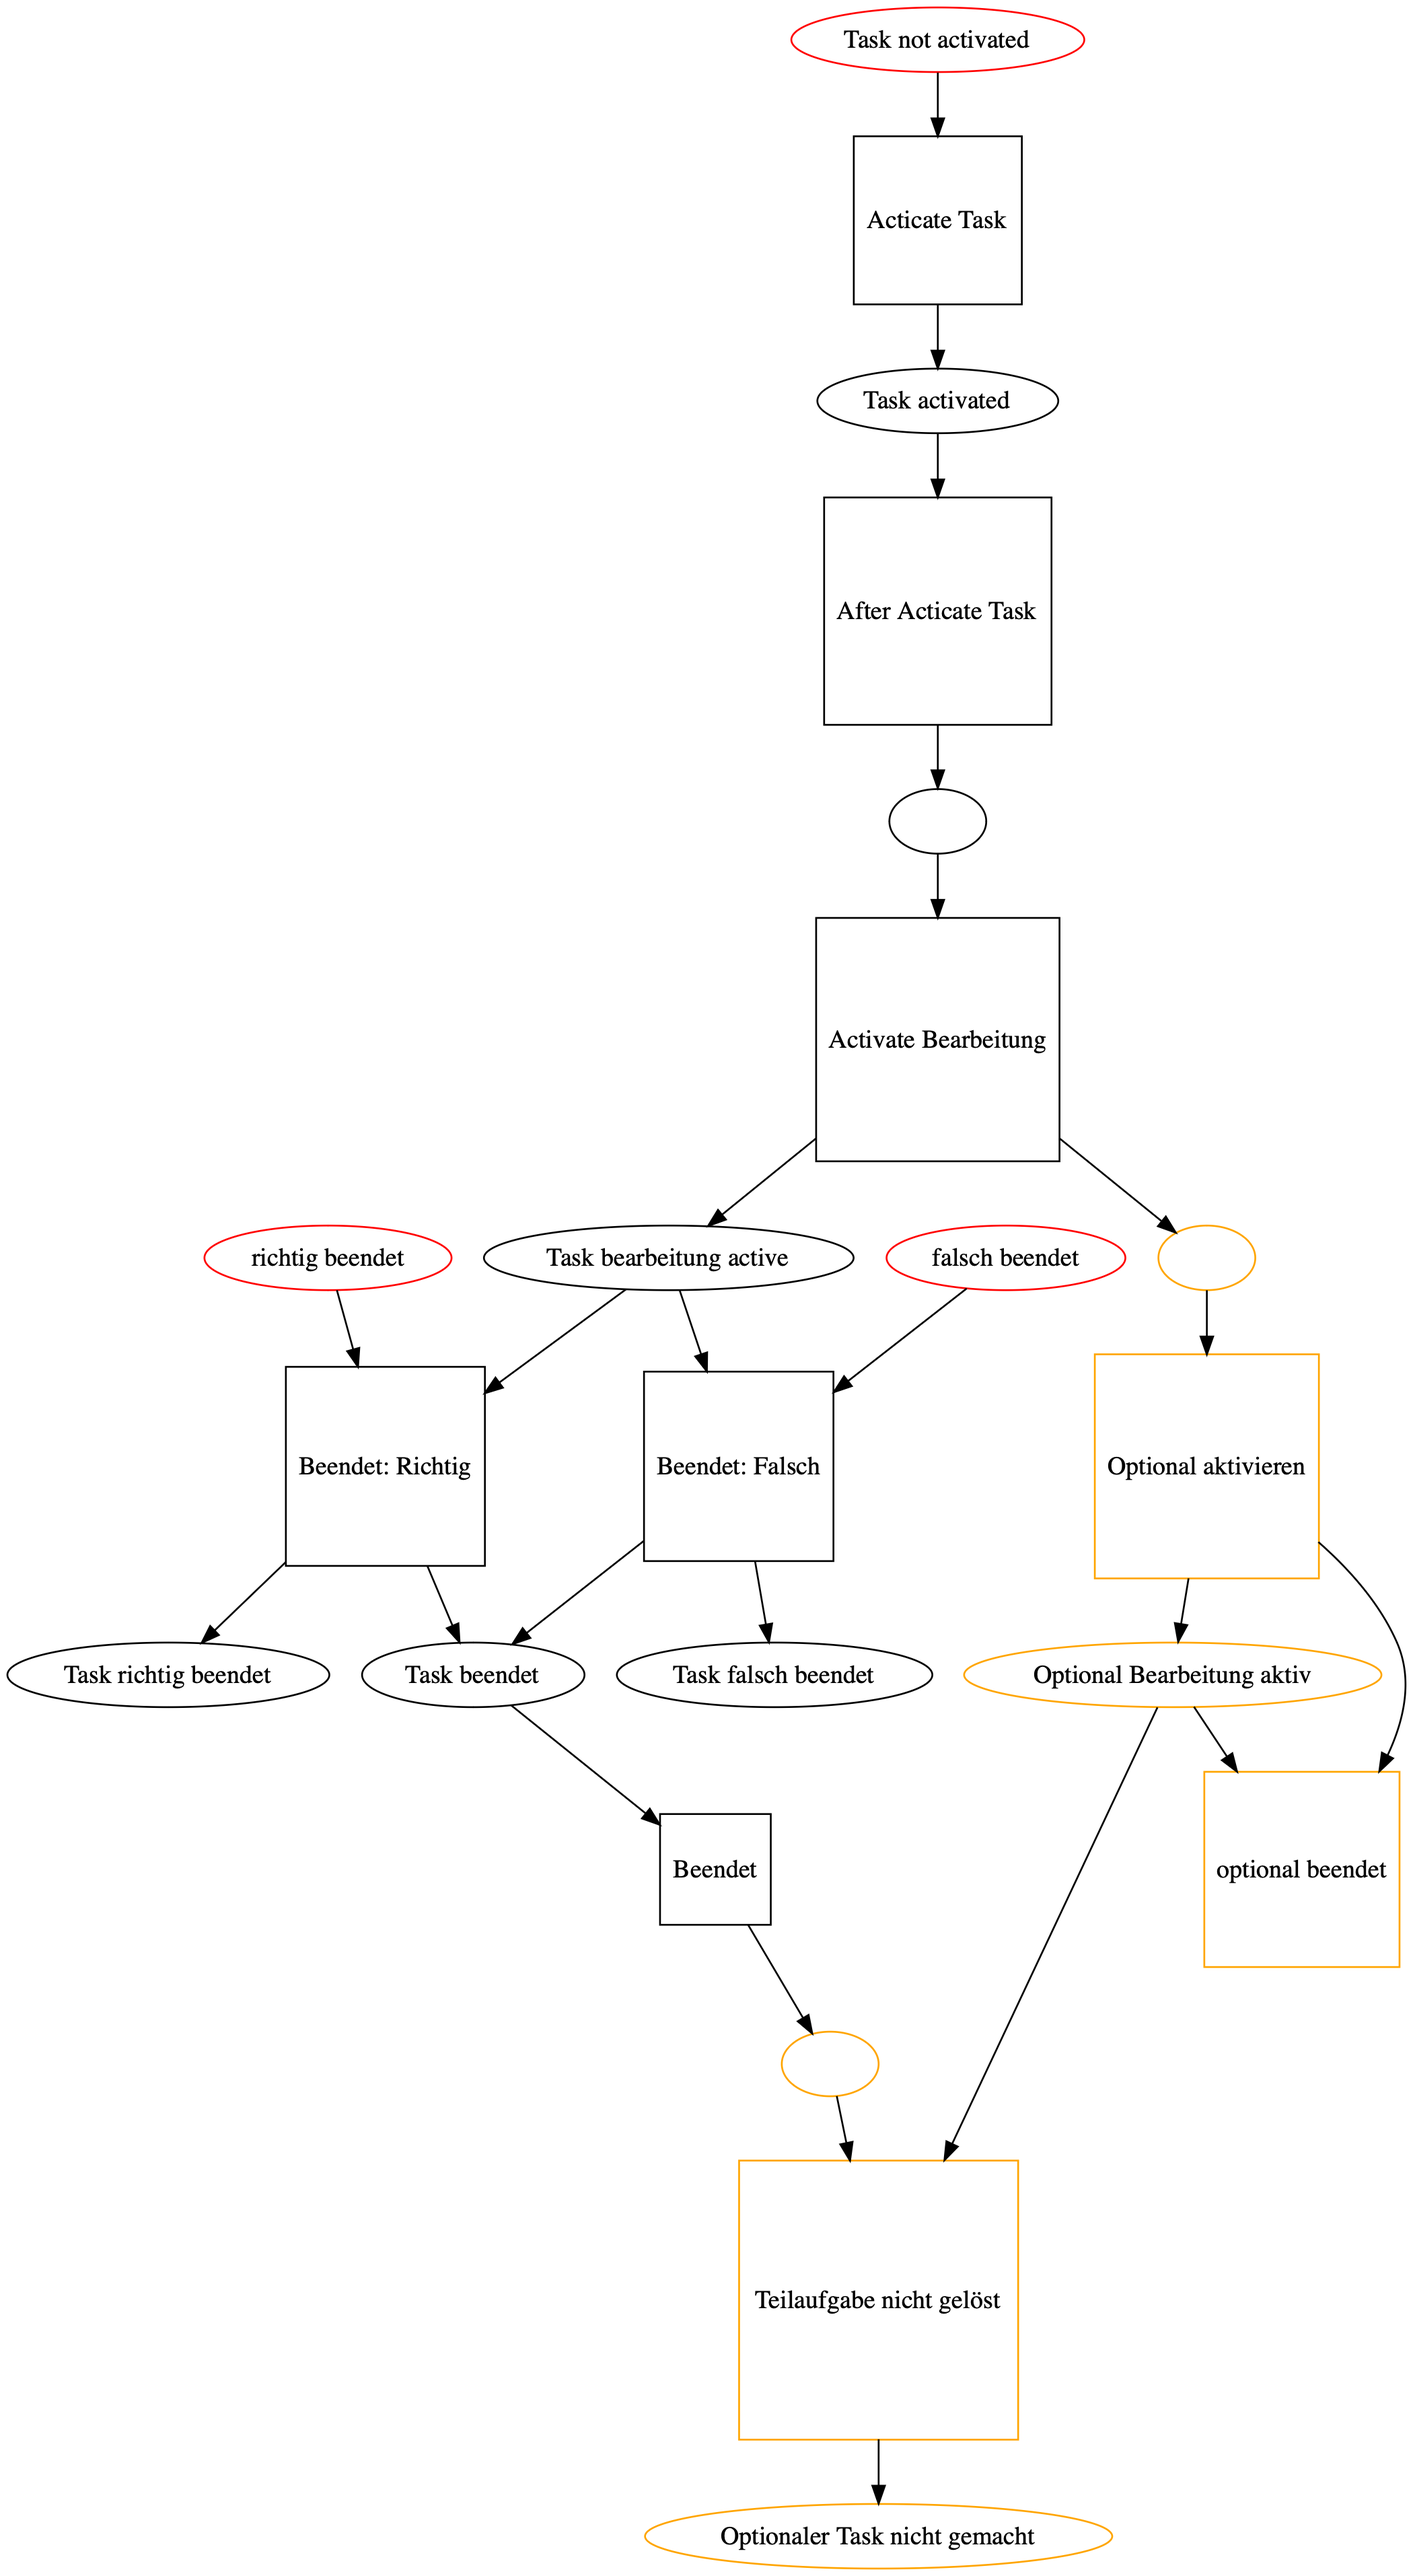
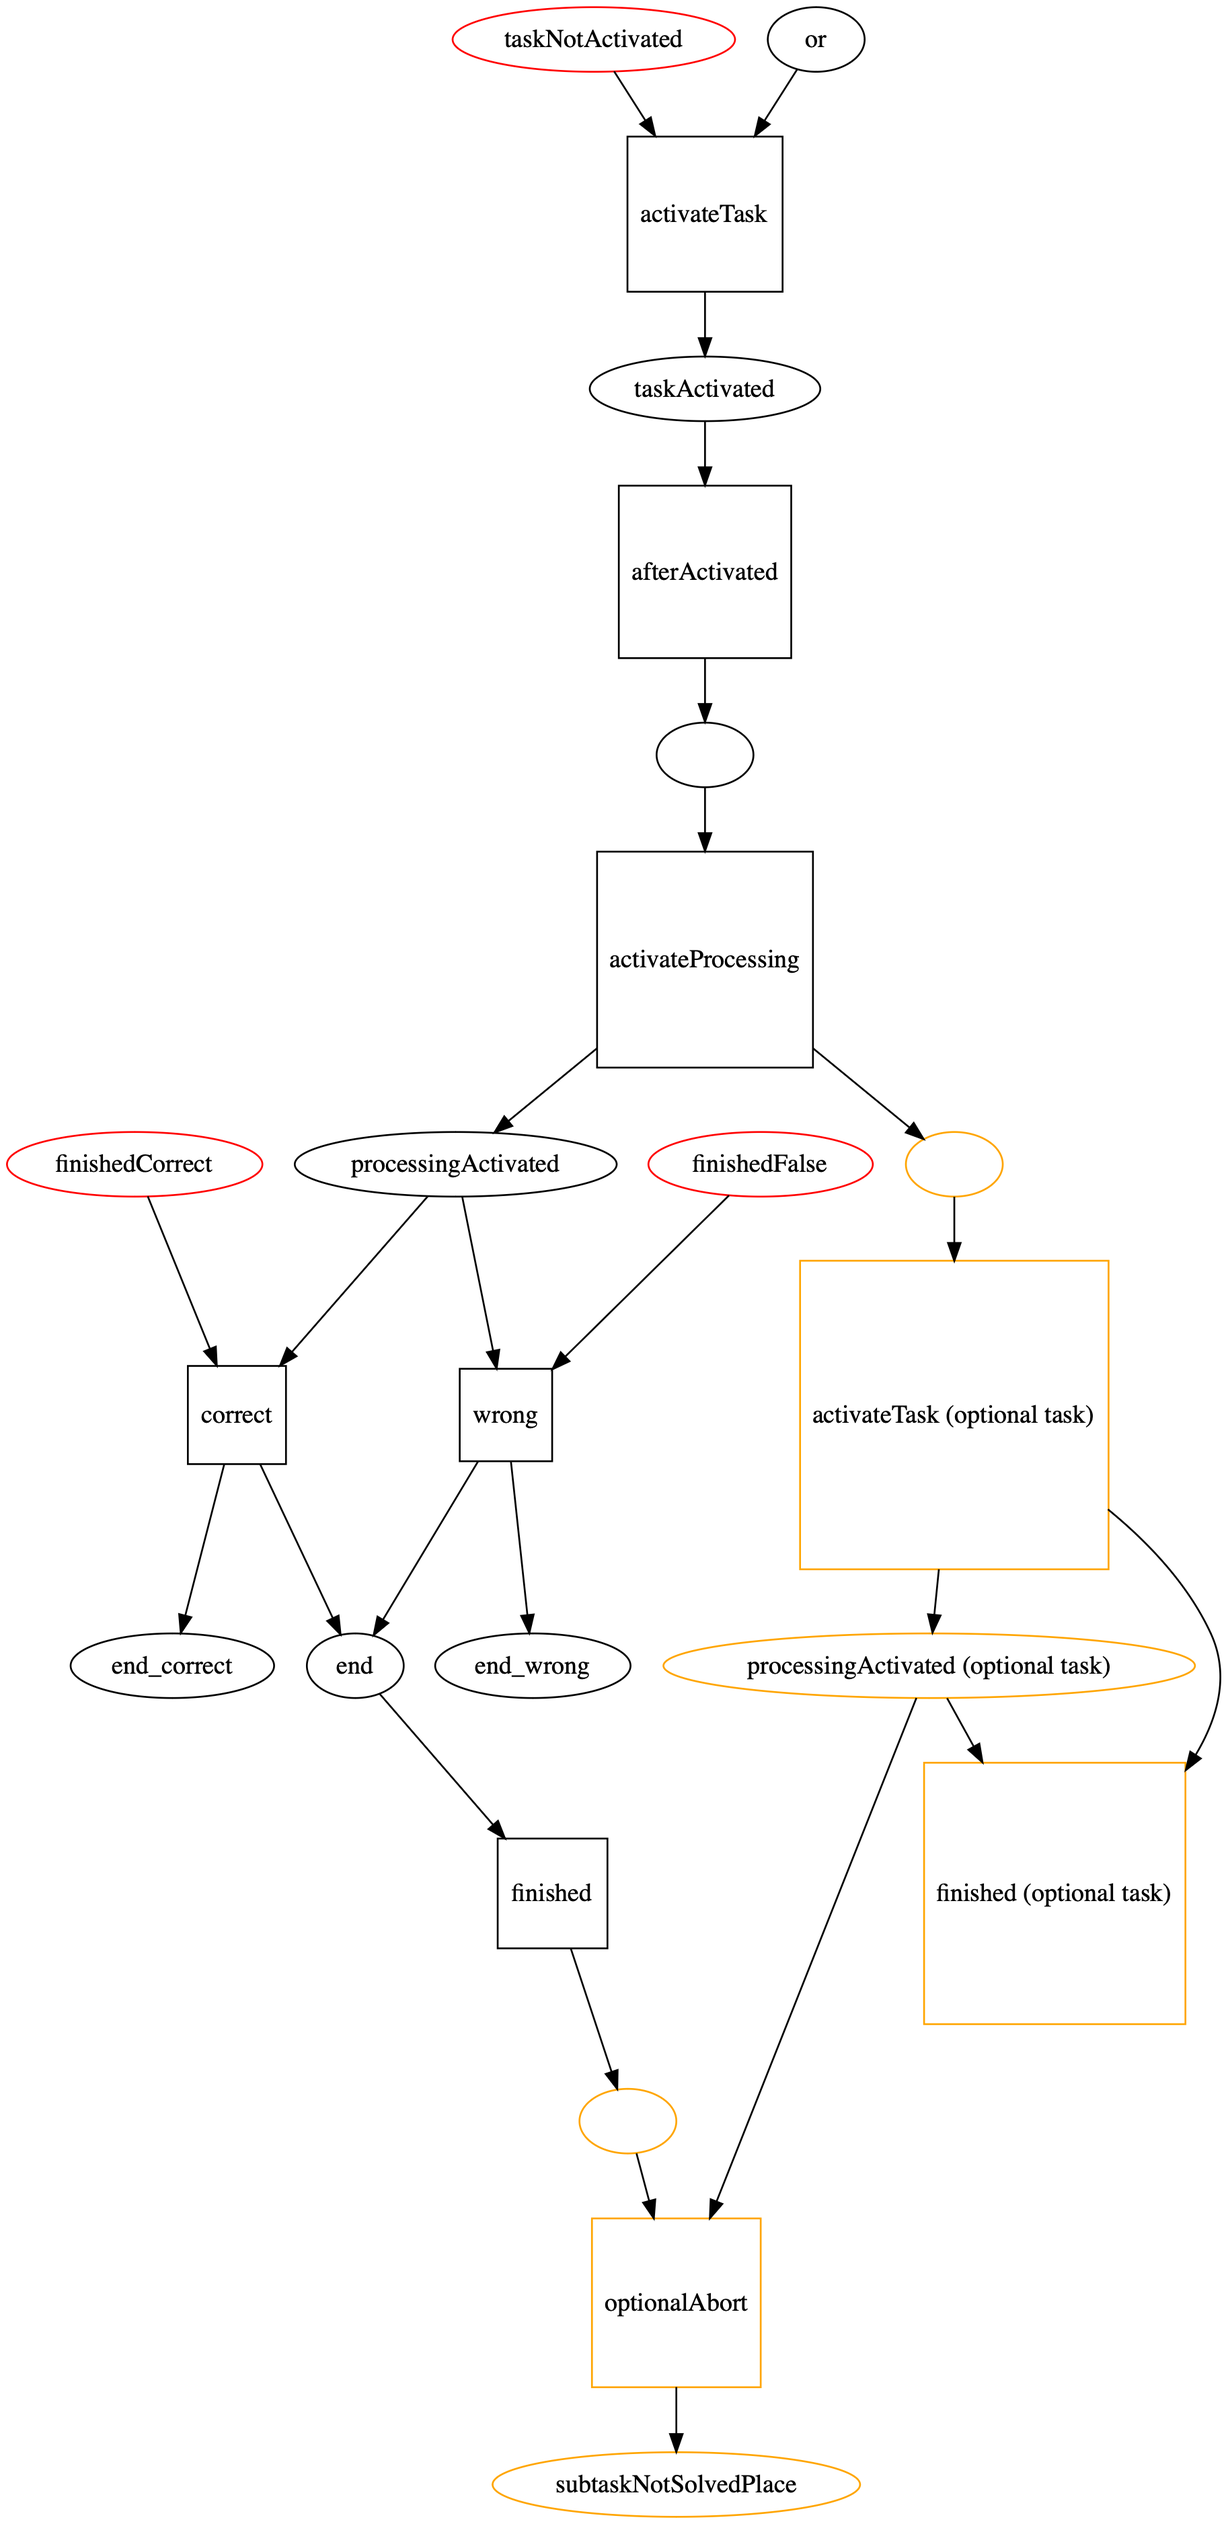
change img so it matches the names in the code

diff --git a/dungeon/test/petriNet/PetriNetFactoryTest.java b/dungeon/test/petriNet/PetriNetFactoryTest.java
@@ -40,7 +40,7 @@ public class PetriNetFactoryTest {
         // finish task
         task.state(Task.TaskState.FINISHED_WRONG);
         assertEquals(0, net.processingActivated().tokenCount());
-        assertEquals(1, net.end_false().tokenCount());
+        assertEquals(1, net.end_wrong().tokenCount());
         assertEquals(Task.TaskState.INACTIVE, task.state());
     }
 
@@ -137,7 +137,7 @@ public class PetriNetFactoryTest {
 
         assertEquals(Task.TaskState.INACTIVE, sub1.state());
         assertEquals(0, sub1Net.end_correct().tokenCount());
-        assertEquals(0, sub1Net.end_false().tokenCount());
+        assertEquals(0, sub1Net.end_wrong().tokenCount());
         assertEquals(0, sub1Net.end().tokenCount());
     }
 
@@ -168,7 +168,7 @@ public class PetriNetFactoryTest {
 
         // finish second pre task should activate the main task
         pre2.state(Task.TaskState.FINISHED_WRONG);
-        assertEquals(1, preNet2.end_false().tokenCount());
+        assertEquals(1, preNet2.end_wrong().tokenCount());
         assertEquals(1, mainNet.processingActivated().tokenCount());
         assertEquals(Task.TaskState.PROCESSING_ACTIVE, mainTask.state());
     }
@@ -199,7 +199,7 @@ public class PetriNetFactoryTest {
         assertEquals(1, mainNet.processingActivated().tokenCount());
         assertEquals(Task.TaskState.PROCESSING_ACTIVE, mainTask.state());
         assertEquals(1, preNet1.processingActivated().tokenCount());
-        assertEquals(0, preNet1.end_false().tokenCount());
+        assertEquals(0, preNet1.end_wrong().tokenCount());
         assertEquals(0, preNet1.end_correct().tokenCount());
         assertEquals(Task.TaskState.PROCESSING_ACTIVE, pre1.state());
     }
@@ -221,7 +221,7 @@ public class PetriNetFactoryTest {
 
         // finish first task correct should activate this task
         pre1.state(Task.TaskState.FINISHED_WRONG);
-        assertEquals(1, preNet1.end_false().tokenCount());
+        assertEquals(1, preNet1.end_wrong().tokenCount());
         assertEquals(1, mainNet.processingActivated().tokenCount());
         assertEquals(Task.TaskState.PROCESSING_ACTIVE, mainTask.state());
         assertEquals(Task.TaskState.INACTIVE, pre1.state());
@@ -290,7 +290,7 @@ public class PetriNetFactoryTest {
 
         // finish first task false should not activate this task
         pre1.state(Task.TaskState.FINISHED_WRONG);
-        assertEquals(1, preNet1.end_false().tokenCount());
+        assertEquals(1, preNet1.end_wrong().tokenCount());
         assertEquals(0, mainNet.processingActivated().tokenCount());
         assertEquals(Task.TaskState.INACTIVE, mainTask.state());
         assertEquals(Task.TaskState.INACTIVE, pre1.state());

diff --git a/dungeon/src/graphconverter/PetriNetFactory.java b/dungeon/src/graphconverter/PetriNetFactory.java
@@ -139,7 +139,7 @@ public class PetriNetFactory {
         connect.activateTask().addDependency(helperInput);
         connect.finished().addTokenOnFire(helperOutput);
         on.afterActivated().addTokenOnFire(helperInput);
-        on.activateprocessing().addDependency(helperOutput);
+        on.activateProcessing().addDependency(helperOutput);
     }
 
     /**
@@ -150,14 +150,16 @@ public class PetriNetFactory {
      */
     public static void connectSubtaskOptional(final PetriNet on, final PetriNet connect) {
         Place helperInput = new Place();
-        on.activateprocessing().addTokenOnFire(helperInput);
+        on.activateProcessing().addTokenOnFire(helperInput);
         connect.activateTask().addDependency(helperInput);
         Place helperOutput = new Place();
         on.finished().addTokenOnFire(helperOutput);
         Place subtaskNotSolvedPlace = new Place();
         subtaskNotSolvedPlace.changeStateOnTokenAdd(connect.task(), Task.TaskState.INACTIVE);
-        new Transition(
-                Set.of(helperOutput, connect.processingActivated()), Set.of(subtaskNotSolvedPlace));
+        Transition optionalAbort =
+                new Transition(
+                        Set.of(helperOutput, connect.processingActivated()),
+                        Set.of(subtaskNotSolvedPlace));
     }
 
     /**

diff --git a/dungeon/src/petriNet/PetriNet.java b/dungeon/src/petriNet/PetriNet.java
@@ -14,14 +14,14 @@ import task.Task;
  * @param activateTask
  * @param taskActivated
  * @param afterActivated
- * @param activateprocessing
+ * @param activateProcessing
  * @param processingActivated
  * @param finishedFalse
  * @param finishedCorrect
  * @param correct
  * @param wrong
  * @param end_correct
- * @param end_false
+ * @param end_wrong
  * @param end
  * @param finished
  * @param or
@@ -32,14 +32,14 @@ public record PetriNet(
         Transition activateTask,
         Place taskActivated,
         Transition afterActivated,
-        Transition activateprocessing,
+        Transition activateProcessing,
         Place processingActivated,
         Place finishedFalse,
         Place finishedCorrect,
         Transition correct,
         Transition wrong,
         Place end_correct,
-        Place end_false,
+        Place end_wrong,
         Place end,
         Transition finished,
         Place or,

diff --git a/doc/control_mechanisms/petri_net_parsing.md b/doc/control_mechanisms/petri_net_parsing.md
@@ -22,6 +22,7 @@ Die verschiedenen Transitionen und Places werden später genutzt, um andere Petr
 
 Der Place "Task not activated" wird initial mit einem Token belegt und dient dazu, eine eventuelle doppelte Aktivierung eines Tasks zu verhindern.
 
+Der Place "or" wird initial mit einem Token belegt. Wird ein anderes Petri-Netz per OR verknüpft, wird dieses Token entfernt."
 ## Abhängigkeit Sequenz
 
 *Anmerkung:* In den folgenden Abbildungen werden nur Ausschnitte des kombinierten Petri-Netzes angezeigt. Es ist immer zu beachten, dass jeder Task durch die Basis-Schablone abgebildet wird. Im Folgenden werden jedoch nur die Anbindgspunkte mit anderen Petri-Netzen betrachtet.
@@ -33,15 +34,13 @@ Im Dungeon unterscheiden wir zwischen AND (in der Abbildung grün) und OR Sequen
 Alle Tasks, die Teil der AND-Sequenz sind, **müssen** vor dem Aktivieren des nächsten Tasks beendet werden. Dafür werden die "Beendet" (für bedingte Folgeaufgaben könnten hier auch "Richtig Beendet" oder "Falsch Beendet" verwendet werden) Transitionen dieser Tasks mithilfe eines Helper-Place an die Transition "Activate Task" des folgenden Tasks verbunden.
 
 Bei einer OR-Sequenz muss nur einer der beteiligten Vortasks erfüllt werden (beendet, richtig beendet, falsch beendet). In diesem Fall werden alle OR-Tasks mit einem "OR-Place" des Folgetasks verbunden. Wird eine der End-Transitionen der Vortasks ausgelöst, platziert dieser ein Token im Place.
-
-Dieser "OR-Place" wird erst dann erzeugt, wenn mindestens eine OR-Verbindung mit dem Petri-Netz hergestellt wird.
-
+Der initial platzierte Token im or-place wird entfernt.
 
 ## Teilaufgaben
 
 *Anmerkung:* In den folgenden Abbildungen werden nur Ausschnitte des kombinierten Petri-Netzes angezeigt. Es ist immer zu beachten, dass jeder Task durch die Basis-Schablone abgebildet wird. Im Folgenden werden jedoch nur die Anbindungen mit anderen Petri-Netzen betrachtet.
 
-![Teilaufgaben Schablone](./img/petri_net_schablone_teilaufgabe.png)
+![Teilaufgaben Schablone](./img/petri_net_schablone_subtask.png)
 
 In Orange sind die Änderungen zur Standardschablone zu sehen.
 Teilaufgaben müssen vor der Aktivierung des Haupttasks bearbeitet werden. Daher werden ihre "Task aktivieren"-Transitionen so mit dem Petri-Netz verbunden, dass sie durch einen Helper-Place, der an der "After activate Task"-Transition des Haupttasks angeschlossen ist, gesteuert werden. Wenn die Aufgaben beendet sind, legen die "Beendet"-Transitionen der Teilaufgaben ein Token in jeweils einen Helper-Place, der mit der "Activate Bearbeitung"-Transition des Haupttasks verbunden ist.
